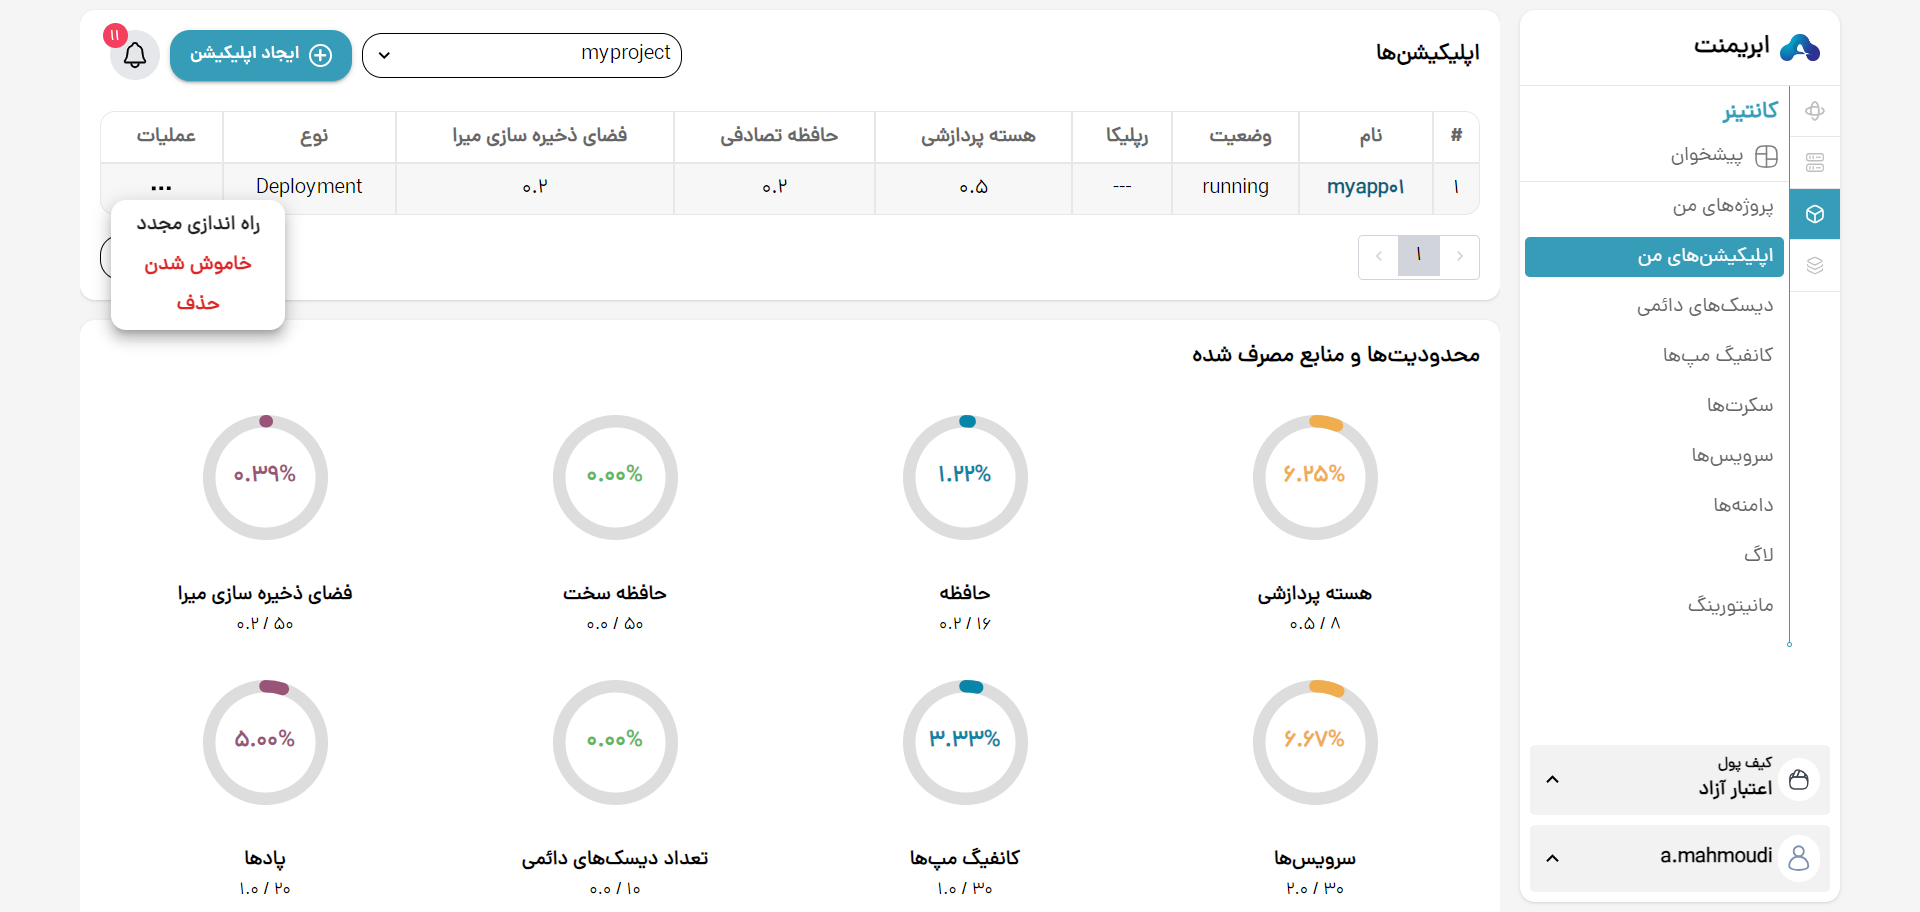
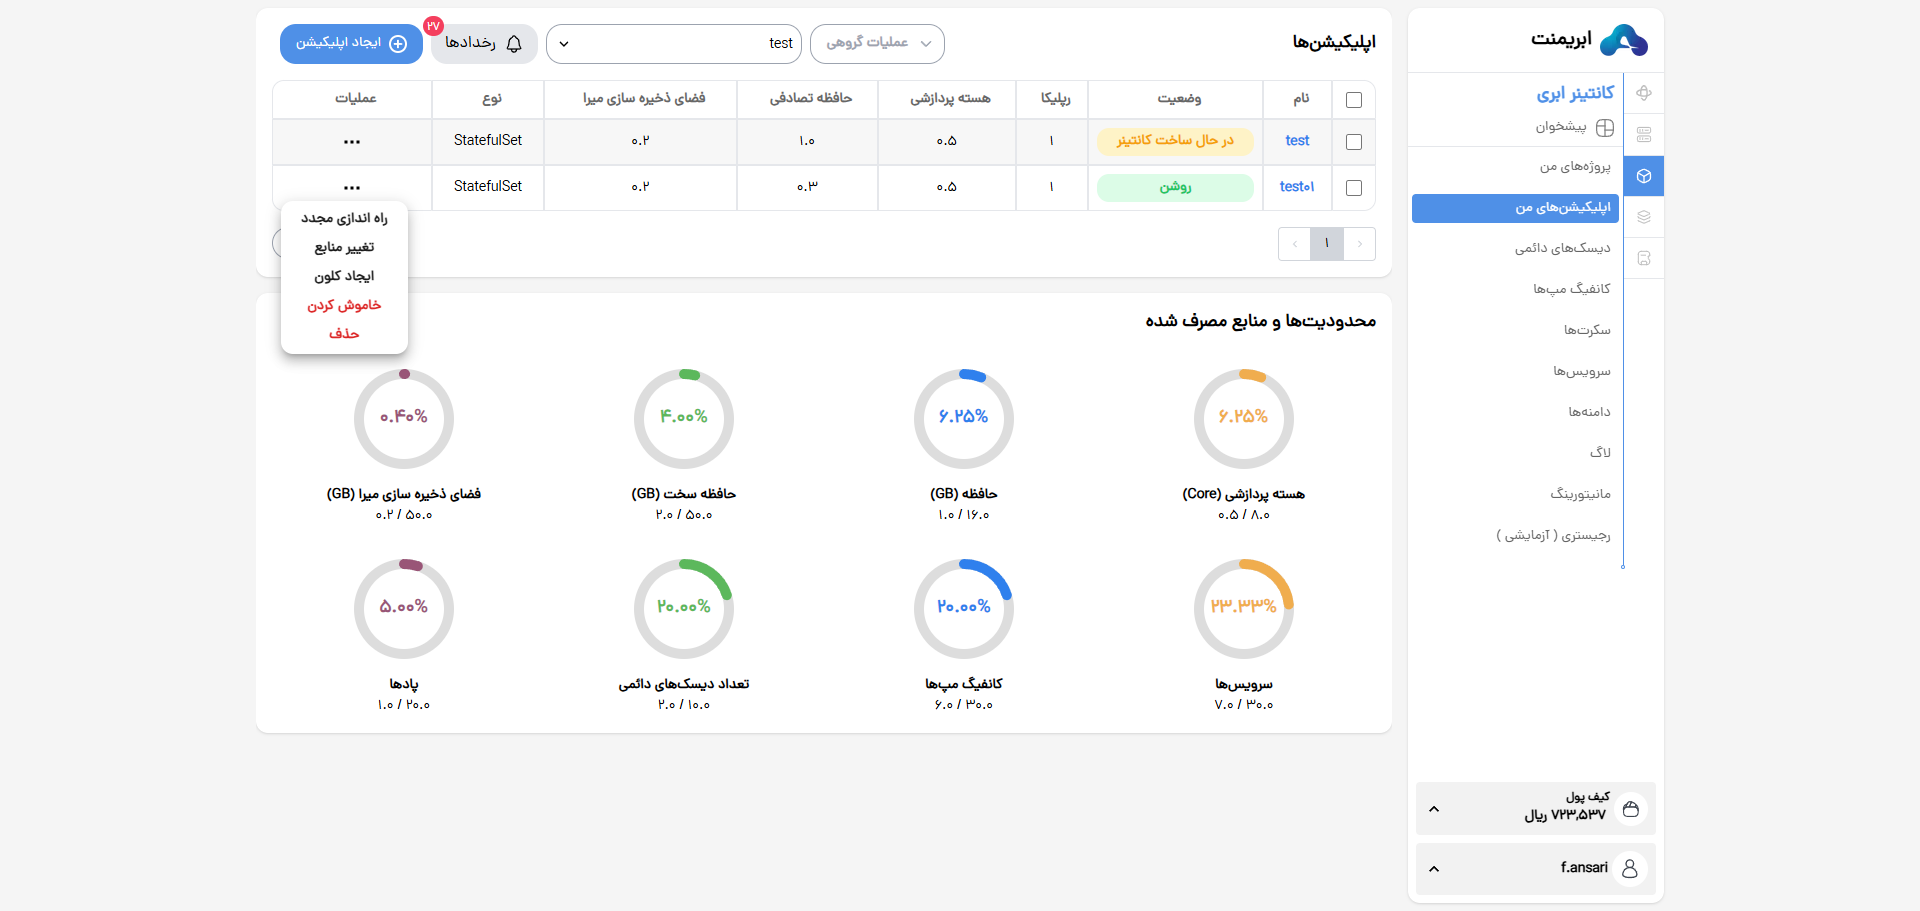
Update 5 files
- /docs/paas/paas.md
- /static/img/container/paas-27.png
- /static/img/container/paas-28.png
- /static/img/container/paas-29.png
- /static/img/container/paas-29.1.png

diff --git a/docs/paas/paas.md b/docs/paas/paas.md
@@ -130,11 +130,23 @@ Secretها انواع مختلفی دارند:
 
 ![paas-25.png](/img/container/paas-28.png) 
 
+و برای کلون گرفتن از اپلیکیشن خود و انتقال به پروژه دیگر میتوان از این بخش اقدام نمود.
+
+![paas-25.png](/img/container/paas-29.png) 
+
+برای تغییر بر روی بیش از یک اپلیکیشن موجود در یک پروژه میتوان از بخش عملیات گروهی استفاده کرد.
+
+![paas-25.png](/img/container/paas-29.1.png) 
+
+
 ## رخدادها
 
 آیکون زنگوله بالا، نشان دهنده لاگهای موجود در هنگام راهاندازی اپلیکیشن است که در واقع eventهای مخصوص به پروژه یا همان namespace شما بر روی کوبرنتیز است.
 
 ![paas-8.png](/img/container/paas-8.png)
+
+
+
 
 ## جزییات اپلیکیشن 
 
